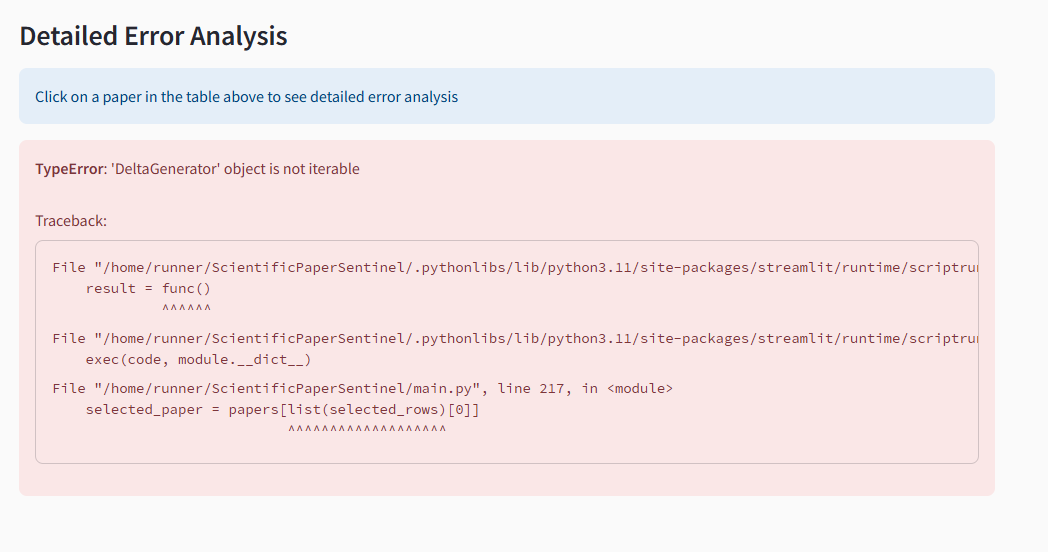
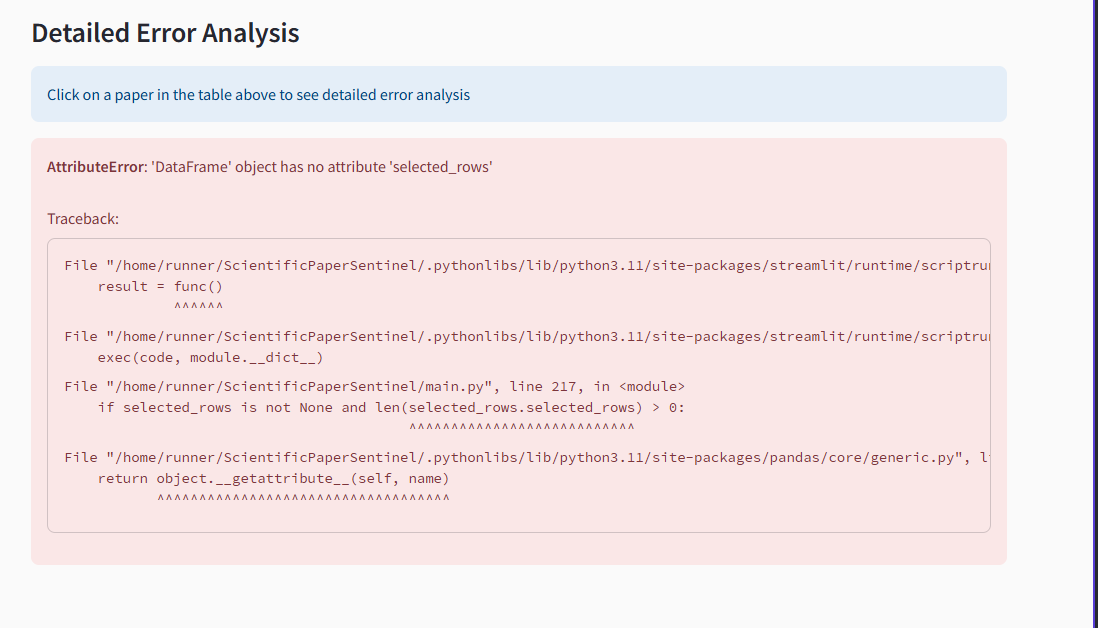
Agent query: Can you select a paper from the table and verify if the detailed error analysis section now works without any errors?
Improve data editor interaction by using session state to track selected rows for detailed error analysis.

Screenshot: https://storage.googleapis.com/screenshot-production-us-central1/3a324477-1900-4275-94ce-f933a41cfd4a/bfeddbbf-3522-4695-8de4-29e4a30566e4.jpg

diff --git a/main.py b/main.py
@@ -201,22 +201,26 @@ if analyze_button:
         )
     
     # Display the dataframe with configured columns
-    selected_rows = st.data_editor(
+    edited_df = st.data_editor(
         display_df,
         use_container_width=True,
         column_config=column_config,
         hide_index=True,
-        num_rows="dynamic"
+        num_rows="dynamic",
+        key="paper_table"
     )
 
     # Add detailed error analysis section
     st.subheader("Detailed Error Analysis")
     st.info("Click on a paper in the table above to see detailed error analysis")
 
+    # Get selected rows through session state
+    selected_indices = st.session_state.paper_table["selected_rows"]
+    
     # Display detailed error analysis for selected paper
-    if selected_rows is not None and len(selected_rows.selected_rows) > 0:
-        row_index = selected_rows.selected_rows[0]
-        selected_paper = papers[row_index]
+    if selected_indices and len(selected_indices) > 0:
+        selected_index = selected_indices[0]
+        selected_paper = papers[selected_index]
         analysis = analyzer.analyze_paper(selected_paper)
         
         for category in analyzer.error_categories:
